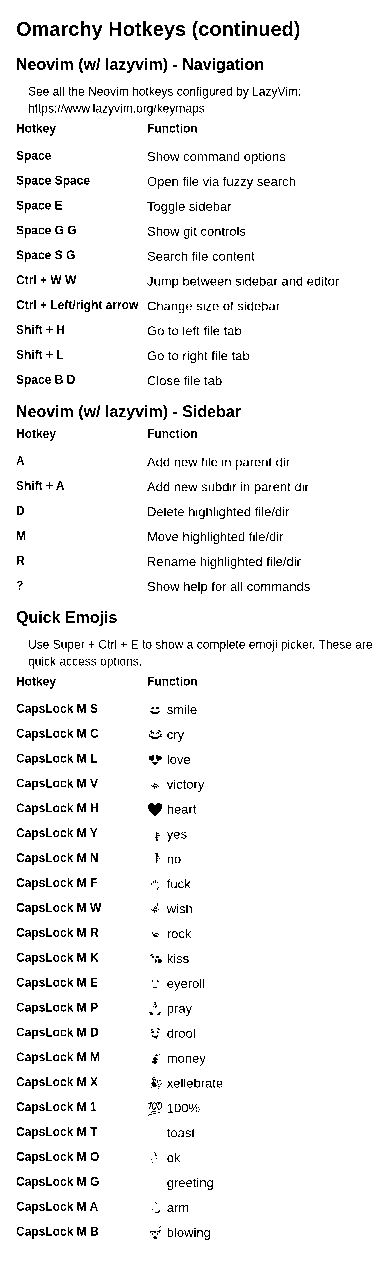
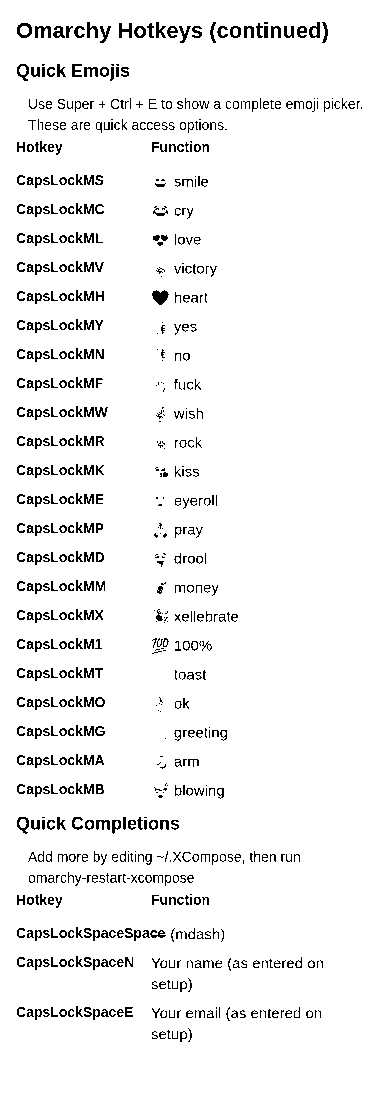
feat: Abbreviate hotkeys and increase font sizes for readability
- Add key abbreviation: Super→S, Ctrl→C, Alt→A, Shift→Sh, CapsLock→CL
- Increase font sizes: title 22px, headings 18px, text 15px, keys 14px
- Improve 1-bit thresholding readability with larger font
- Apply abbreviations to both markdown and PNG outputs
- Reduced sections from 5 to 4 parts due to improved space efficiency

diff --git a/scripts/generate-png.ts b/scripts/generate-png.ts
@@ -30,14 +30,24 @@ interface PNGFile {
 // Constants from MXW01_READABILITY_GUIDE
 const PRINTER_WIDTH = 384;
 const PADDING = 16;
-const FONT_SIZE_TITLE = 20;
-const FONT_SIZE_HEADING = 16;
-const FONT_SIZE_TEXT = 13;
-const FONT_SIZE_KEYS = 12;
+const FONT_SIZE_TITLE = 22;
+const FONT_SIZE_HEADING = 18;
+const FONT_SIZE_TEXT = 15;
+const FONT_SIZE_KEYS = 14;
 const FONT_FAMILY = "Arial";
-const LINE_HEIGHT = 1.3;
-const COL_SPACING = 8;
+const LINE_HEIGHT = 1.4;
+const COL_SPACING = 12;
 const MAX_LINES = 60;
+
+function abbreviateKeys(keys: string): string {
+  return keys
+    .replace(/Super\s*\+\s*/g, "S-")
+    .replace(/Ctrl\s*\+\s*/g, "C-")
+    .replace(/Alt\s*\+\s*/g, "A-")
+    .replace(/Shift\s*\+\s*/g, "Sh-")
+    .replace(/CapsLock\s*\+\s*/g, "CL-")
+    .replace(/\s+/g, "");
+}
 
 interface TextMetrics {
   width: number;
@@ -99,8 +109,9 @@ function countLines(sections: Section[], includeHeader: boolean = true): number 
       count += 2; // Note + blank
     }
     if (section.hotkeys && section.hotkeys.length > 0) {
-      count += 2; // Table header + separator
-      count += section.hotkeys.length; // Rows
+      count += 2; // Table header + blank
+      // Abbreviated keys are shorter, so count as fewer lines
+      count += Math.ceil(section.hotkeys.length * 0.8);
       count += 1; // Blank after table
     }
   }
@@ -260,9 +271,10 @@ async function generatePNGForSections(
 
       // Data rows
       for (const hotkey of section.hotkeys) {
+        const abbreviatedKeys = abbreviateKeys(hotkey.keys);
         const keyLines = wrapText(
           renderCtx,
-          hotkey.keys,
+          abbreviatedKeys,
           keyColWidth,
           FONT_SIZE_KEYS
         );

diff --git a/scripts/generate-markdown.ts b/scripts/generate-markdown.ts
@@ -27,6 +27,16 @@ function countLines(text: string): number {
   return text.split("\n").length;
 }
 
+function abbreviateKeys(keys: string): string {
+  return keys
+    .replace(/Super\s*\+\s*/g, "S-")
+    .replace(/Ctrl\s*\+\s*/g, "C-")
+    .replace(/Alt\s*\+\s*/g, "A-")
+    .replace(/Shift\s*\+\s*/g, "Sh-")
+    .replace(/CapsLock\s*\+\s*/g, "CL-")
+    .replace(/\s+/g, "");
+}
+
 function generateSectionMarkdown(section: Section): string {
   let markdown = `## ${section.name}\n\n`;
 
@@ -39,11 +49,9 @@ function generateSectionMarkdown(section: Section): string {
     markdown += `| --- | --- |\n`;
 
     for (const hotkey of section.hotkeys) {
-      // Format the keys with backticks for monospace
-      const formattedKeys = hotkey.keys
-        .split(" / ")
-        .map((k) => `\`${k.trim()}\``)
-        .join(" / ");
+      // Use abbreviated keys for consistency
+      const abbreviatedKeys = abbreviateKeys(hotkey.keys);
+      const formattedKeys = `\`${abbreviatedKeys}\``;
 
       markdown += `| ${formattedKeys} | ${hotkey.description} |\n`;
     }

diff --git a/cheatsheets/omarchy_hotkeys_part1.md b/cheatsheets/omarchy_hotkeys_part1.md
@@ -6,34 +6,34 @@
 
 | Hotkey | Function |
 | --- | --- |
-| `Super + Space` | Application launcher |
-| `Super + Alt + Space` | Omarchy control menu |
-| `Super + Escape` | Lock, suspend, relaunch, restart, shutdown computer |
-| `Super + W` | Close window |
-| `Ctrl + Alt + Del` | Close all windows |
-| `Super + T` | Toggle window between tiling/floating |
-| `Super + O` | Toggle popping window into sticky'n'floating |
-| `Super + F` | Go full screen |
-| `Super + Alt + F` | Go full width for the window |
-| `Super + 1/2/3/4` | Jump to specific workspace |
-| `Super + Tab` | Jump to next workspace |
-| `Super + Shift + Tab` | Jump to previous workspace |
-| `Super + Ctrl + Tab` | Jump to former workspace |
-| `Super + Shift + 1/2/3/4` | Move window to workspace |
-| `Super + Shift + Alt + Arrows` | Move workspaces to directional monitor |
-| `Super + S` | Show scratchpad workspace overlay |
-| `Super + Alt + S` | Move window to scratchpad workspace |
-| `Ctrl + 1/2/3/..` | Jump to browser tab |
-| `Super + Arrow` | Move focus to window in direction of arrow |
-| `Super + Shift + Arrow` | Swap window with another in direction of arrow |
-| `Super + Equal` | Grow windows to the left |
-| `Super + Minus` | Grow windows to the right |
-| `Super + Shift + Equal` | Grow windows to the bottom |
-| `Super + Shift + Minus` | Grow windows to the top |
-| `Super + G` | Toggle window grouping |
-| `Super + Alt + G` | Move window out of grouping |
-| `Super + Alt + Tab` | Cycle between windows in grouping |
-| `Super + Alt + 1/2/3/4` | Jump to specific window in grouping |
-| `Super + Alt + Arrow` | Move window into grouping in direction of arrow |
-| `Super + Ctrl + Arrow` | Move between windows inside a tiling group |
+| `S-Space` | Application launcher |
+| `S-A-Space` | Omarchy control menu |
+| `S-Escape` | Lock, suspend, relaunch, restart, shutdown computer |
+| `S-W` | Close window |
+| `C-A-Del` | Close all windows |
+| `S-T` | Toggle window between tiling/floating |
+| `S-O` | Toggle popping window into sticky'n'floating |
+| `S-F` | Go full screen |
+| `S-A-F` | Go full width for the window |
+| `S-1/2/3/4` | Jump to specific workspace |
+| `S-Tab` | Jump to next workspace |
+| `S-Sh-Tab` | Jump to previous workspace |
+| `S-C-Tab` | Jump to former workspace |
+| `S-Sh-1/2/3/4` | Move window to workspace |
+| `S-Sh-A-Arrows` | Move workspaces to directional monitor |
+| `S-S` | Show scratchpad workspace overlay |
+| `S-A-S` | Move window to scratchpad workspace |
+| `C-1/2/3/..` | Jump to browser tab |
+| `S-Arrow` | Move focus to window in direction of arrow |
+| `S-Sh-Arrow` | Swap window with another in direction of arrow |
+| `S-Equal` | Grow windows to the left |
+| `S-Minus` | Grow windows to the right |
+| `S-Sh-Equal` | Grow windows to the bottom |
+| `S-Sh-Minus` | Grow windows to the top |
+| `S-G` | Toggle window grouping |
+| `S-A-G` | Move window out of grouping |
+| `S-A-Tab` | Cycle between windows in grouping |
+| `S-A-1/2/3/4` | Jump to specific window in grouping |
+| `S-A-Arrow` | Move window into grouping in direction of arrow |
+| `S-C-Arrow` | Move between windows inside a tiling group |
 

diff --git a/cheatsheets/omarchy_hotkeys_part2.md b/cheatsheets/omarchy_hotkeys_part2.md
@@ -6,24 +6,24 @@
 
 | Hotkey | Function |
 | --- | --- |
-| `Super + Return` | Terminal |
-| `Super + Shift + B` | Browser |
-| `Super + Shift + Alt + B` | Browser (private/incognito) |
-| `Super + Shift + F` | File manager |
-| `Super + Shift + T` | Activity (btop) |
-| `Super + Shift + M` | Music (Spotify) |
-| `Super + Shift + /` | Password manager (1password) |
-| `Super + Shift + N` | Neovim |
-| `Super + Shift + C` | Calendar (HEY) |
-| `Super + Shift + E` | Email (HEY) |
-| `Super + Shift + A` | AI (ChatGPT) |
-| `Super + Shift + G` | Messenger (Signal) |
-| `Super + Shift + Ctrl + G` | Messenger (WhatsApp) |
-| `Super + Shift + Alt + G` | Messenger (Google) |
-| `Super + Shift + D` | Docker (LazyDocker) |
-| `Super + Shift + O` | Obsidian |
-| `Super + Shift + X` | X |
-| `Super + Ctrl + S` | Share menu (via LocalSend) |
+| `S-Return` | Terminal |
+| `S-Sh-B` | Browser |
+| `S-Sh-A-B` | Browser (private/incognito) |
+| `S-Sh-F` | File manager |
+| `S-Sh-T` | Activity (btop) |
+| `S-Sh-M` | Music (Spotify) |
+| `S-Sh-/` | Password manager (1password) |
+| `S-Sh-N` | Neovim |
+| `S-Sh-C` | Calendar (HEY) |
+| `S-Sh-E` | Email (HEY) |
+| `S-Sh-A` | AI (ChatGPT) |
+| `S-Sh-G` | Messenger (Signal) |
+| `S-Sh-C-G` | Messenger (WhatsApp) |
+| `S-Sh-A-G` | Messenger (Google) |
+| `S-Sh-D` | Docker (LazyDocker) |
+| `S-Sh-O` | Obsidian |
+| `S-Sh-X` | X |
+| `S-C-S` | Share menu (via LocalSend) |
 
 ## Universal clipboard
 
@@ -31,10 +31,10 @@
 
 | Hotkey | Function |
 | --- | --- |
-| `Super + C` | Copy |
-| `Super + X` | Cut (not in terminal) |
-| `Super + V` | Paste |
-| `Super + Ctrl + V` | Clipboard manager |
+| `S-C` | Copy |
+| `S-X` | Cut (not in terminal) |
+| `S-V` | Paste |
+| `S-C-V` | Clipboard manager |
 
 ## Capture
 
@@ -42,9 +42,9 @@
 
 | Hotkey | Function |
 | --- | --- |
-| `Print Screen` | Screenshot with editing |
-| `Shift + Print Screen` | Screenshot straight to clipboard |
-| `Alt + Print Screen` | Screenrecord |
-| `Super + Print Screen` | Color picker |
-| `Alt + Shift + L` | Copy current URL from webapp or Chromium |
+| `PrintScreen` | Screenshot with editing |
+| `Sh-PrintScreen` | Screenshot straight to clipboard |
+| `A-PrintScreen` | Screenrecord |
+| `S-PrintScreen` | Color picker |
+| `A-Sh-L` | Copy current URL from webapp or Chromium |
 

diff --git a/cheatsheets/omarchy_hotkeys_part3.md b/cheatsheets/omarchy_hotkeys_part3.md
@@ -4,10 +4,10 @@
 
 | Hotkey | Function |
 | --- | --- |
-| `Super + ,` | Dismiss latest notification |
-| `Super + Shift + ,` | Dismiss all notifications |
-| `Super + Ctrl + ,` | Toggle silencing notifications |
-| `Super + Alt + ,` | Invoke most recent notification |
+| `S-,` | Dismiss latest notification |
+| `S-Sh-,` | Dismiss all notifications |
+| `S-C-,` | Toggle silencing notifications |
+| `S-A-,` | Invoke most recent notification |
 
 ## Style
 
@@ -15,37 +15,37 @@
 
 | Hotkey | Function |
 | --- | --- |
-| `Super + Ctrl + Shift + Space` | Pick a new theme |
-| `Super + Ctrl + Space` | Next background image for theme |
-| `Super + Backspace` | Toggle transparency on a window |
+| `S-C-Sh-Space` | Pick a new theme |
+| `S-C-Space` | Next background image for theme |
+| `S-Backspace` | Toggle transparency on a window |
 
 ## Toggles
 
 | Hotkey | Function |
 | --- | --- |
-| `Super + Ctrl + I` | Toggle idle/sleep prevention |
-| `Super + Ctrl + N` | Toggle nightlight display temperature |
-| `Super + Shift + Space` | Toggle the top bar |
-| `Super + Mute` | Switch to next audio output |
+| `S-C-I` | Toggle idle/sleep prevention |
+| `S-C-N` | Toggle nightlight display temperature |
+| `S-Sh-Space` | Toggle the top bar |
+| `S-Mute` | Switch to next audio output |
 
 ## Ghostty Terminal
 
 | Hotkey | Function |
 | --- | --- |
-| `Ctrl + Shift + E` | New split below |
-| `Ctrl + Shift + O` | New split besides |
-| `Ctrl + Alt + Arrows` | Move between splits |
-| `Super + Ctrl + Shift + Arrows` | Resize split by 10 lines |
-| `Super + Ctrl + Shift + Alt + Arrows` | Resize split by 100 lines |
-| `Ctrl + Shift + T` | New tab |
-| `Ctrl + Shift + Arrows` | Move between tabs |
-| `Alt + Numbers` | Go to specific tab |
+| `C-Sh-E` | New split below |
+| `C-Sh-O` | New split besides |
+| `C-A-Arrows` | Move between splits |
+| `S-C-Sh-Arrows` | Resize split by 10 lines |
+| `S-C-Sh-A-Arrows` | Resize split by 100 lines |
+| `C-Sh-T` | New tab |
+| `C-Sh-Arrows` | Move between tabs |
+| `A-Numbers` | Go to specific tab |
 
 ## File Manager
 
 | Hotkey | Function |
 | --- | --- |
-| `Ctrl + L` | Go to path |
+| `C-L` | Go to path |
 | `Space` | Preview file (arrows navigate) |
 | `Backspace` | Go back one folder |
 

diff --git a/cheatsheets/omarchy_hotkeys_part4.md b/cheatsheets/omarchy_hotkeys_part4.md
@@ -6,9 +6,9 @@
 
 | Hotkey | Function |
 | --- | --- |
-| `Ctrl + F1` | Turn down brightness |
-| `Ctrl + F2` | Turn up brightness |
-| `Ctrl + Shift + F2` | Turn up brightness to maximum |
+| `C-F1` | Turn down brightness |
+| `C-F2` | Turn up brightness |
+| `C-Sh-F2` | Turn up brightness to maximum |
 
 ## Neovim (w/ lazyvim) - Navigation
 
@@ -17,22 +17,22 @@
 | Hotkey | Function |
 | --- | --- |
 | `Space` | Show command options |
-| `Space Space` | Open file via fuzzy search |
-| `Space E` | Toggle sidebar |
-| `Space G G` | Show git controls |
-| `Space S G` | Search file content |
-| `Ctrl + W W` | Jump between sidebar and editor |
-| `Ctrl + Left/right arrow` | Change size of sidebar |
-| `Shift + H` | Go to left file tab |
-| `Shift + L` | Go to right file tab |
-| `Space B D` | Close file tab |
+| `SpaceSpace` | Open file via fuzzy search |
+| `SpaceE` | Toggle sidebar |
+| `SpaceGG` | Show git controls |
+| `SpaceSG` | Search file content |
+| `C-WW` | Jump between sidebar and editor |
+| `C-Left/rightarrow` | Change size of sidebar |
+| `Sh-H` | Go to left file tab |
+| `Sh-L` | Go to right file tab |
+| `SpaceBD` | Close file tab |
 
 ## Neovim (w/ lazyvim) - Sidebar
 
 | Hotkey | Function |
 | --- | --- |
 | `A` | Add new file in parent dir |
-| `Shift + A` | Add new subdir in parent dir |
+| `Sh-A` | Add new subdir in parent dir |
 | `D` | Delete highlighted file/dir |
 | `M` | Move highlighted file/dir |
 | `R` | Rename highlighted file/dir |
